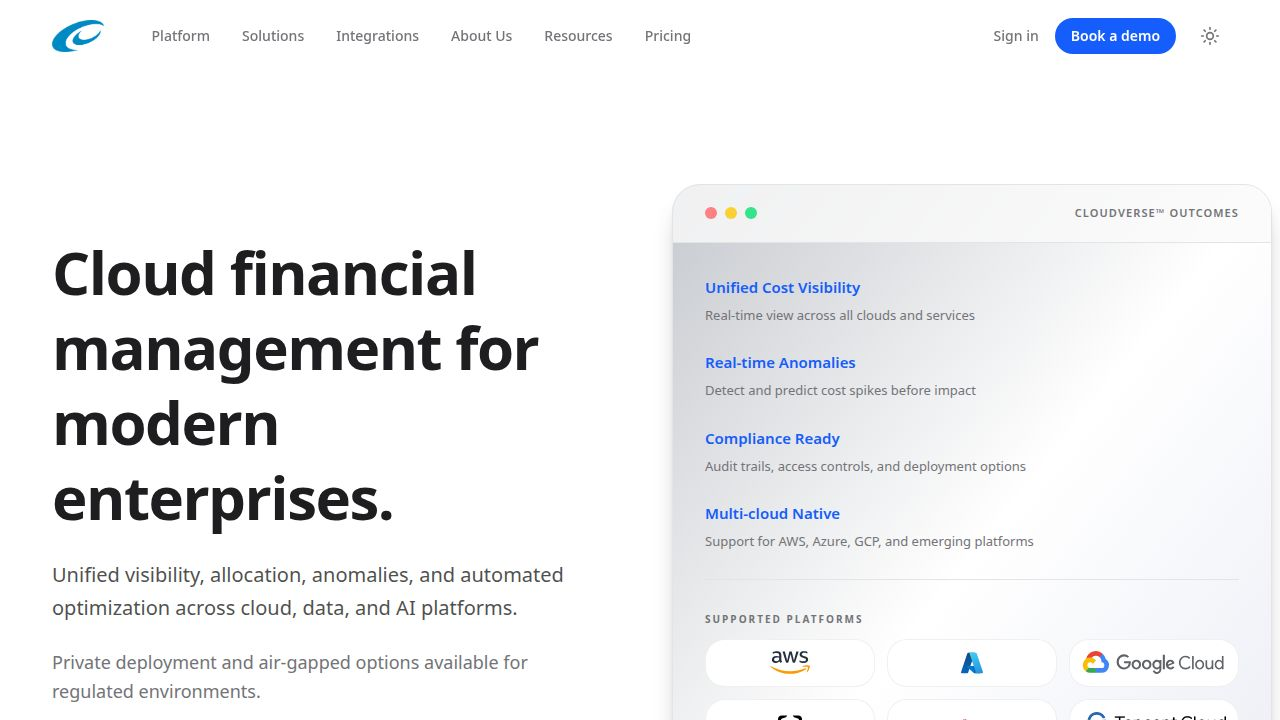
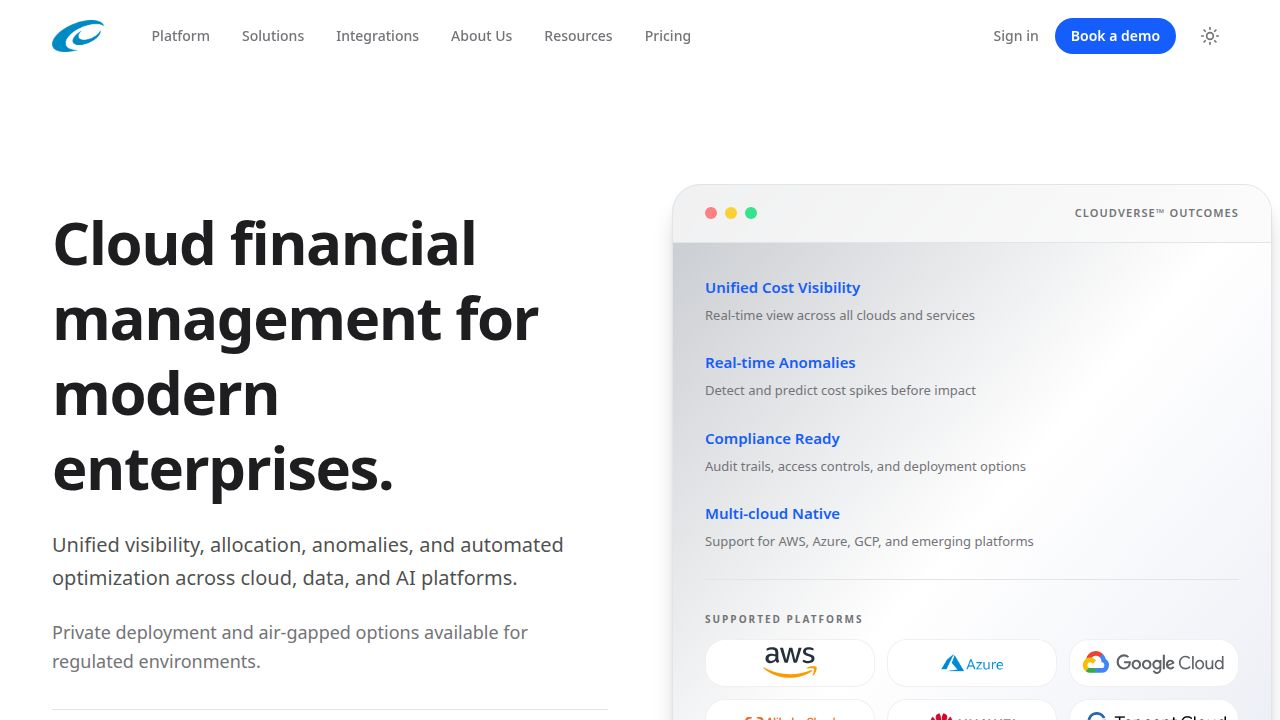
Update AI and GPU provider display to three columns
Modify the AI and GPU provider display to show three logos in a row and remove the Databricks logo from the list.

Replit-Commit-Author: Agent
Replit-Commit-Session-Id: 9f0a048b-23b9-446d-ab33-542f220974ec
Replit-Commit-Checkpoint-Type: full_checkpoint
Replit-Commit-Event-Id: eac2f13a-5e68-494c-b71e-940e77a758f6
Replit-Commit-Screenshot-Url: https://storage.googleapis.com/screenshot-production-us-central1/d8dacd2f-b214-4560-9121-caa3bb9575fb/9f0a048b-23b9-446d-ab33-542f220974ec/pEqxHDo
Replit-Helium-Checkpoint-Created: true

diff --git a/client/src/config/logos.ts b/client/src/config/logos.ts
@@ -64,7 +64,7 @@ export const LOGOS: Record<LogoKey, LogoVariant> = {
 };
 
 export const CLOUD_PROVIDERS: LogoKey[] = ['aws', 'azure', 'gcp', 'alibaba', 'huawei', 'tencent'];
-export const AI_GPU_PROVIDERS: LogoKey[] = ['openai', 'databricks', 'snowflake', 'kubernetes'];
+export const AI_GPU_PROVIDERS: LogoKey[] = ['openai', 'snowflake', 'kubernetes'];
 
 export const LOGO_DISPLAY_NAMES: Record<LogoKey, string> = {
   aws: 'AWS',

diff --git a/client/src/components/home/HeroCard.tsx b/client/src/components/home/HeroCard.tsx
@@ -130,7 +130,7 @@ export function HeroCard() {
           <h5 className="text-[10px] font-bold tracking-[0.2em] text-cv-muted dark:text-slate-500 uppercase mb-3">
             AI & GPU Providers
           </h5>
-          <div className="grid grid-cols-2 gap-3">
+          <div className="grid grid-cols-3 gap-3">
             {AI_GPU_PROVIDERS.map((key) => (
               <LogoPill key={key} logoKey={key} />
             ))}
